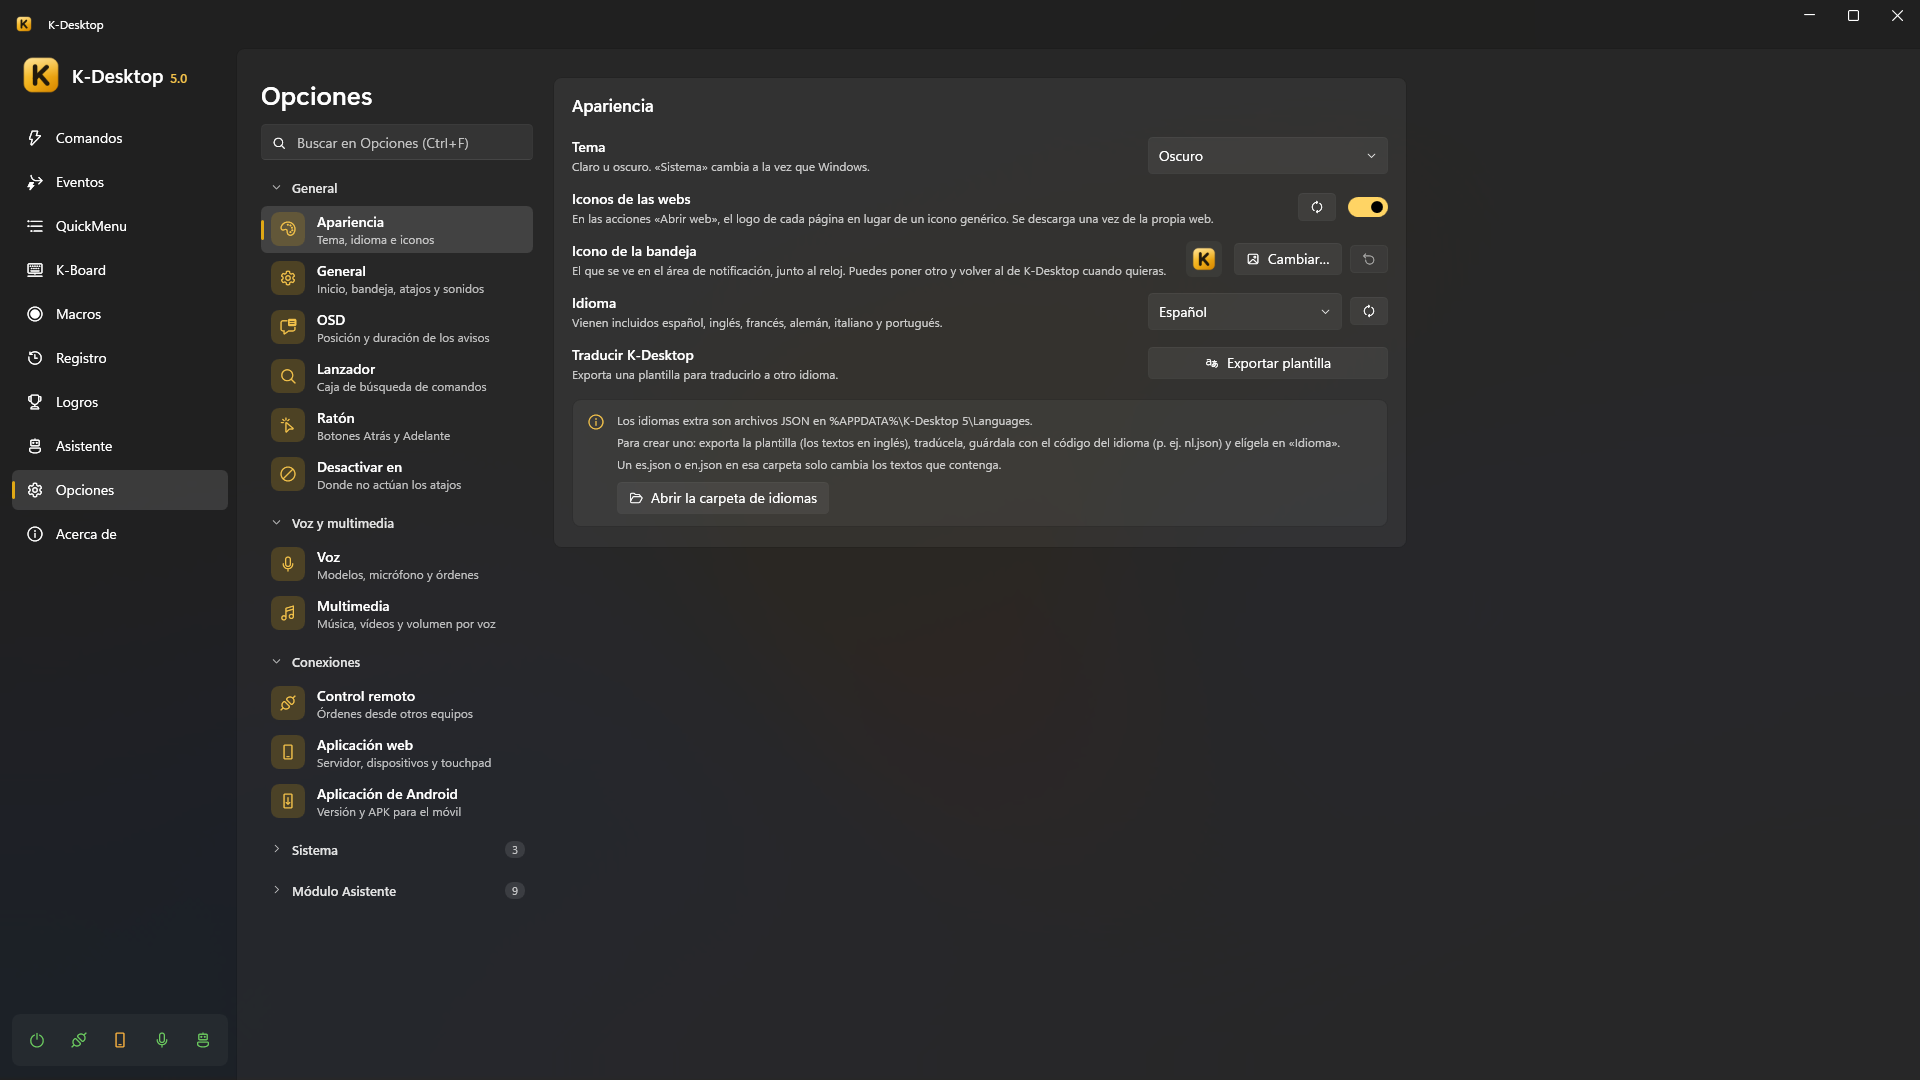
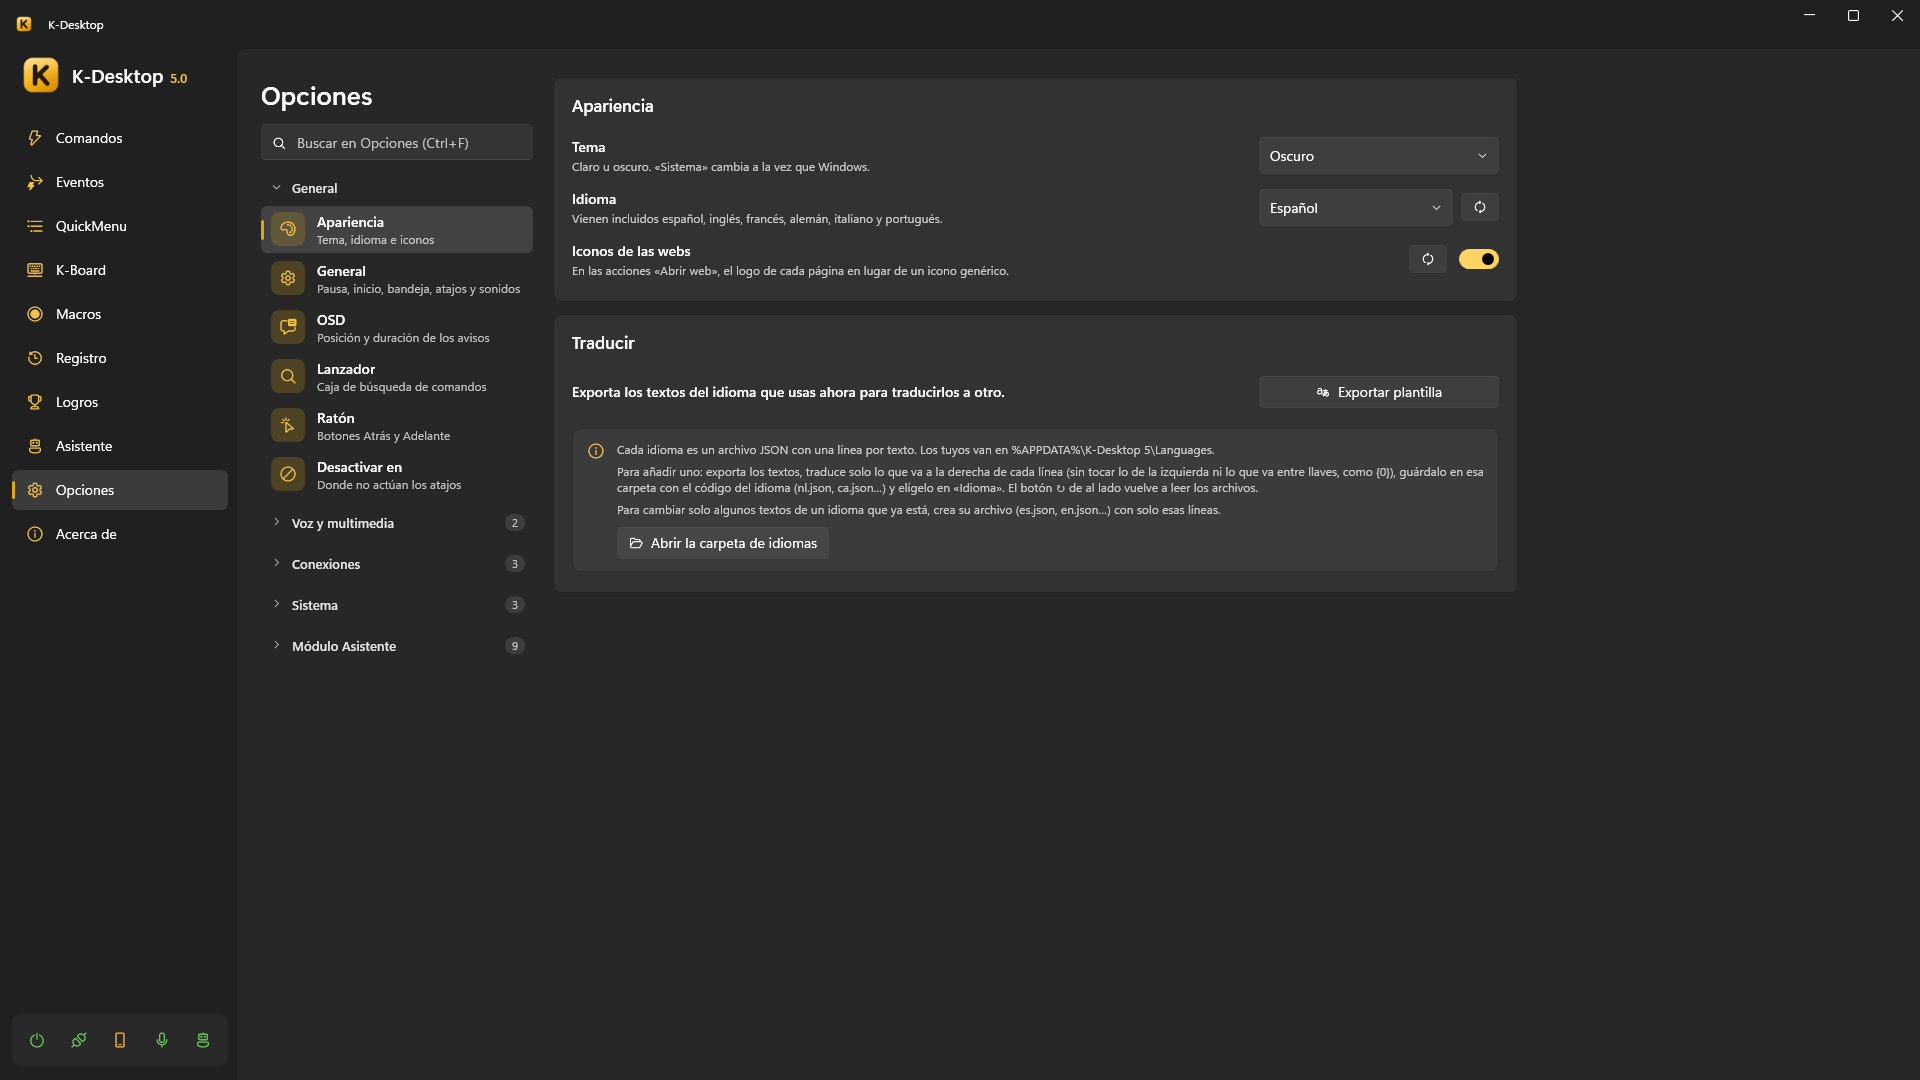
5.0.202: Opciones › Apariencia y General reordenadas (Pausa arriba, la imagen del icono de la bandeja en General, atajos y sonidos aparte), textos más cortos y «Exportar plantilla» saca el idioma en uso

diff --git a/src/KDesktop/Views/Pages/SettingsPage.xaml b/src/KDesktop/Views/Pages/SettingsPage.xaml
@@ -234,21 +234,6 @@
                     <Grid Style="{StaticResource SettingRow}">
                         <Grid.ColumnDefinitions><ColumnDefinition Width="*" /><ColumnDefinition Width="Auto" /></Grid.ColumnDefinitions>
                         <StackPanel VerticalAlignment="Center" Margin="0,0,20,0">
-                            <TextBlock Text="{l:Tr settings.trayImage}" />
-                            <TextBlock Style="{StaticResource Caption}" Text="{l:Tr settings.trayImageHint}" />
-                        </StackPanel>
-                        <StackPanel Grid.Column="1" Orientation="Horizontal" VerticalAlignment="Center">
-                            <Border Width="36" Height="36" Margin="0,0,12,0" CornerRadius="6" Background="{DynamicResource Kd.Subtle}">
-                                <Image x:Name="TrayImagePreview" Width="24" Height="24" RenderOptions.BitmapScalingMode="HighQuality" />
-                            </Border>
-                            <ui:Button Margin="0,0,8,0" Content="{l:Tr settings.trayImageChange}" Icon="{ui:SymbolIcon Image24}" Click="OnChangeTrayImage" />
-                            <ui:Button x:Name="TrayImageReset" Icon="{ui:SymbolIcon ArrowReset24}" ToolTip="{l:Tr settings.trayImageReset}"
-                                       AutomationProperties.Name="{l:Tr settings.trayImageReset}" Click="OnResetTrayImage" />
-                        </StackPanel>
-                    </Grid>
-                    <Grid Style="{StaticResource SettingRow}">
-                        <Grid.ColumnDefinitions><ColumnDefinition Width="*" /><ColumnDefinition Width="Auto" /></Grid.ColumnDefinitions>
-                        <StackPanel VerticalAlignment="Center" Margin="0,0,20,0">
                             <TextBlock Text="{l:Tr settings.favicons}" />
                             <TextBlock Style="{StaticResource Caption}" Text="{l:Tr settings.faviconsHint}" />
                         </StackPanel>
@@ -289,10 +274,10 @@
                 </StackPanel>
             </Border>
 
-            <!-- General -->
+            <!-- General: pause -->
             <Border Style="{StaticResource Card}" Tag="general">
                 <StackPanel>
-                    <TextBlock Style="{StaticResource CardTitle}" Text="{l:Tr settings.general}" />
+                    <TextBlock Style="{StaticResource CardTitle}" Text="{l:Tr settings.pauseTitle}" />
                     <Grid Style="{StaticResource SettingRow}">
                         <Grid.ColumnDefinitions><ColumnDefinition Width="*" /><ColumnDefinition Width="Auto" /></Grid.ColumnDefinitions>
                         <StackPanel VerticalAlignment="Center" Margin="0,0,20,0">
@@ -314,6 +299,13 @@
                                        AutomationProperties.Name="{l:Tr common.remove}" Click="OnClearPauseHotkey" />
                         </StackPanel>
                     </Grid>
+                </StackPanel>
+            </Border>
+
+            <!-- General -->
+            <Border Style="{StaticResource Card}" Tag="general">
+                <StackPanel>
+                    <TextBlock Style="{StaticResource CardTitle}" Text="{l:Tr settings.general}" />
                     <Grid Style="{StaticResource SettingRow}">
                         <Grid.ColumnDefinitions><ColumnDefinition Width="*" /><ColumnDefinition Width="Auto" /></Grid.ColumnDefinitions>
                         <StackPanel VerticalAlignment="Center" Margin="0,0,20,0">
@@ -338,6 +330,28 @@
                         </StackPanel>
                         <ui:ToggleSwitch Grid.Column="1" IsChecked="{Binding ShowTrayIcon}" />
                     </Grid>
+                    <Grid Style="{StaticResource SettingRow}">
+                        <Grid.ColumnDefinitions><ColumnDefinition Width="*" /><ColumnDefinition Width="Auto" /></Grid.ColumnDefinitions>
+                        <StackPanel VerticalAlignment="Center" Margin="0,0,20,0">
+                            <TextBlock Text="{l:Tr settings.trayImage}" />
+                            <TextBlock Style="{StaticResource Caption}" Text="{l:Tr settings.trayImageHint}" />
+                        </StackPanel>
+                        <StackPanel Grid.Column="1" Orientation="Horizontal" VerticalAlignment="Center">
+                            <Border Width="36" Height="36" Margin="0,0,12,0" CornerRadius="6" Background="{DynamicResource Kd.Subtle}">
+                                <Image x:Name="TrayImagePreview" Width="24" Height="24" RenderOptions.BitmapScalingMode="HighQuality" />
+                            </Border>
+                            <ui:Button Margin="0,0,8,0" Content="{l:Tr settings.trayImageChange}" Icon="{ui:SymbolIcon Image24}" Click="OnChangeTrayImage" />
+                            <ui:Button x:Name="TrayImageReset" Icon="{ui:SymbolIcon ArrowReset24}" ToolTip="{l:Tr settings.trayImageReset}"
+                                       AutomationProperties.Name="{l:Tr settings.trayImageReset}" Click="OnResetTrayImage" />
+                        </StackPanel>
+                    </Grid>
+                </StackPanel>
+            </Border>
+
+            <!-- General: hotkeys and sounds -->
+            <Border Style="{StaticResource Card}" Tag="general">
+                <StackPanel>
+                    <TextBlock Style="{StaticResource CardTitle}" Text="{l:Tr settings.hotkeysSounds}" />
                     <Grid Style="{StaticResource SettingRow}">
                         <Grid.ColumnDefinitions><ColumnDefinition Width="*" /><ColumnDefinition Width="Auto" /></Grid.ColumnDefinitions>
                         <StackPanel VerticalAlignment="Center" Margin="0,0,20,0">

diff --git a/src/KDesktop.Core/Localization/Loc.cs b/src/KDesktop.Core/Localization/Loc.cs
@@ -12,7 +12,7 @@ public sealed record LanguageInfo(string Code, string Name);
 /// built into the assembly, and %APPDATA%\K-Desktop 5\Languages adds languages or overrides texts key by key (user files win).
 /// Adding a language = adding a file. Missing keys fall back to English, then to the key itself.
 /// </summary>
-public sealed class Loc : INotifyPropertyChanged
+public sealed partial class Loc : INotifyPropertyChanged
 {
     public const string Fallback = "en";
 
@@ -119,14 +119,26 @@ public sealed class Loc : INotifyPropertyChanged
     }
 
     /// <summary>
-    /// The built-in English file as the starting point of a translation, with "_language" set to <paramref name="code"/>
-    /// so the new language does not show up as a second "English".
+    /// The texts of the language in use as the starting point of a translation: laid out like the built-in English file
+    /// (its order and blank lines), English where the language has no text, and "_language" set to <paramref name="code"/>
+    /// so the new language does not show up as a second one of the same name.
     /// </summary>
     public static string Template(string code)
     {
         var json = EmbeddedAssets.ReadText(EmbeddedFolder, Fallback + ".json") ?? "{}";
-        return Regex.Replace(json, "\"_language\"\\s*:\\s*\"[^\"]*\"", $"\"_language\": {JsonSerializer.Serialize(code)}", RegexOptions.None, TimeSpan.FromSeconds(1));
+        var current = Instance._strings;
+        var options = new JsonSerializerOptions { Encoder = System.Text.Encodings.Web.JavaScriptEncoder.UnsafeRelaxedJsonEscaping };
+        return TemplateLine().Replace(json, m => m.Groups[2].Value switch
+        {
+            "_language" => $"{m.Groups[1].Value}{JsonSerializer.Serialize(code, options)}{m.Groups[3].Value}",
+            var key when current.TryGetValue(key, out var text) => $"{m.Groups[1].Value}{JsonSerializer.Serialize(text, options)}{m.Groups[3].Value}",
+            _ => m.Value,
+        });
     }
+
+    /// <summary>One <c>"key": "text",</c> line of a language file (groups: up to the text, the key, the end of the line).</summary>
+    [GeneratedRegex("""^(\s*"([^"\\]+)"\s*:\s*)"(?:[^"\\]|\\.)*"(\s*,?\s*)$""", RegexOptions.Multiline, 1000)]
+    private static partial Regex TemplateLine();
 
     /// <summary>Language to use when the user has not chosen one: Windows' own if there is a file for it, else English.</summary>
     public static string SystemDefault()

diff --git a/tests/KDesktop.Core.Tests/LanguageTests.cs b/tests/KDesktop.Core.Tests/LanguageTests.cs
@@ -28,6 +28,18 @@ public class LanguageTests
         }
     }
 
+    /// <summary>«Exportar plantilla» gives the texts of the language in use (Spanish in the tests) with every key, under the new code.</summary>
+    [Fact]
+    public void TemplateHasTheCurrentLanguage()
+    {
+        var template = JsonSerializer.Deserialize<Dictionary<string, string>>(Localization.Loc.Template("nl"))!;
+        var en = Load("en");
+        var es = Load("es");
+        Assert.Equal(en.Keys.Order(), template.Keys.Order());
+        Assert.Equal("nl", template["_language"]);
+        foreach (var key in en.Keys.Where(k => k != "_language")) Assert.Equal(es[key], template[key]);
+    }
+
     [Fact]
     public void EveryEventKindHasItsTexts()
     {

diff --git a/site/es/k-desktop/settings.md b/site/es/k-desktop/settings.md
@@ -9,8 +9,8 @@ allí.
 
 | Sección | Qué tiene |
 |---|---|
-| **Apariencia** | Tema claro, oscuro o el del sistema; idioma (el de Windows, o uno de los seis incluidos); iconos |
-| **General** | Iniciar con Windows, el icono de la bandeja, los atajos para enseñar la ventana y para pausar, el sonido y el mensaje al arrancar |
+| **Apariencia** | Tema claro, oscuro o el del sistema; idioma (el de Windows, o uno de los seis incluidos); iconos de las webs; traducir |
+| **General** | Pausar K-Desktop; iniciar con Windows, el icono de la bandeja y su imagen; los atajos para enseñar la ventana y para salir, los sonidos y el mensaje al arrancar |
 | **OSD** | Dónde salen los mensajes en pantalla de K-Desktop y cuánto duran |
 | **Lanzador** | Su atajo, qué encuentra (programas, comandos ocultos, cuentas, la web) y en qué orden |
 
@@ -52,8 +52,9 @@ El **módulo Asistente** tiene su propio grupo: ver [Asistentes](../assistant/in
 ## Idiomas
 
 Hay seis incluidos: español, inglés, francés, alemán, italiano y portugués. Los idiomas de más son archivos JSON en
-`%APPDATA%\K-Desktop 5\Languages`: **Exportar plantilla** (los textos en inglés), tradúcela, guárdala con el código del
-idioma (`nl.json`) y elígela en *Idioma*. Un `es.json` o `en.json` ahí solo cambia los textos que tenga.
+`%APPDATA%\K-Desktop 5\Languages`. En *Traducir*, **Exportar plantilla** saca los textos del idioma que usas ahora:
+traduce lo de la derecha de cada línea (sin tocar lo que va entre llaves, como `{0}`), guárdalo con el código del idioma
+(`nl.json`) y elígelo en *Idioma*. Un `es.json` o `en.json` ahí con solo algunas líneas cambia solo esos textos.
 
 ## Logros y estadísticas
 

diff --git a/site/en/k-desktop/settings.md b/site/en/k-desktop/settings.md
@@ -9,8 +9,8 @@ there.
 
 | Section | What it has |
 |---|---|
-| **Appearance** | Light, dark or system theme; language (Windows', or one of the six built in); icons |
-| **General** | Start with Windows, the tray icon, the hotkeys to show the window and to pause, startup sound and message |
+| **Appearance** | Light, dark or system theme; language (Windows', or one of the six built in); website icons; translating |
+| **General** | Pause K-Desktop; start with Windows, the tray icon and its picture; the hotkeys to show the window and to exit, sounds and startup message |
 | **OSD** | Where K-Desktop's on-screen messages appear and how long they stay |
 | **Launcher** | Its hotkey, what it finds (programs, hidden commands, sums, the web) and its order |
 
@@ -52,8 +52,10 @@ The **assistant module** has its own group: see [Assistants](../assistant/index.
 ## Languages
 
 Six are built in: English, Spanish, French, German, Italian and Portuguese. Extra languages are JSON files in
-`%APPDATA%\K-Desktop 5\Languages`: **Export template** (the English texts), translate it, save it with the language code
-(`nl.json`) and pick it under *Language*. An `es.json` or `en.json` there only changes the texts it contains.
+`%APPDATA%\K-Desktop 5\Languages`. Under *Translate*, **Export template** saves the texts of the language you are using
+now: translate the right-hand side of each line (leave anything in braces, like `{0}`, as it is), save it with the
+language code (`nl.json`) and pick it under *Language*. An `es.json` or `en.json` there with only a few lines changes
+just those texts.
 
 ## Achievements and statistics
 
